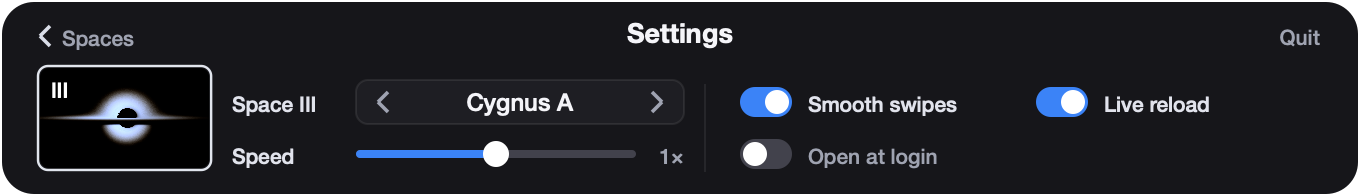
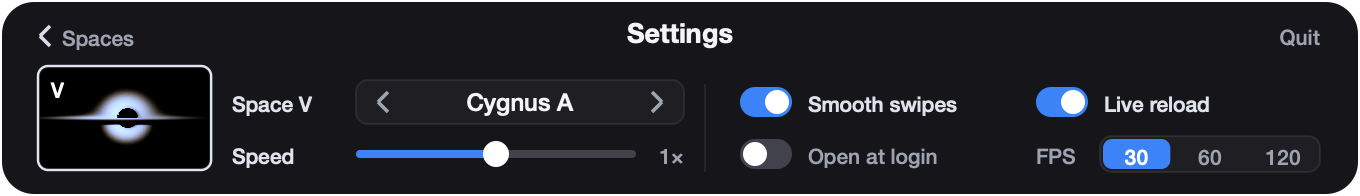
docs/media: popover and Settings show all seven shipped themes
Re-snapshotted with --snapshot-popover from a build of this branch run --offscreen from its
own folder with a clean seven-theme config (the owner's live Argus untouched). Cygnus A on
the active Space V; Lizard Island and Tutorial Reef on its warm neighbours. Settings now
shows the FPS selector. README alt text and media README follow.

Changed region(s): [[0.7412, 0.6735, 0.9574, 0.8878], [0.2162, 0.4898, 0.2471, 0.5816], [0.0309, 0.398, 0.0618, 0.4898]]

diff --git a/docs/media/README.md b/docs/media/README.md
@@ -11,7 +11,7 @@ Every theme frame is rendered offline by the themes' own code on the GPU path th
 | `spaces.png` | 0.5 MB | The seven shipped themes, one per Space, and an eighth Space left on macOS Default. Each tile is a 1920×1080 offline frame |
 | `theme-authoring.png` | 0.3 MB | `themes/Tutorial_Tides.metal` next to its `make harness` frame and verbatim report |
 | `social-card.png` | 0.3 MB | 1280×640 GitHub social preview. Cygnus A rendered at 3840×1920, cropped and scaled |
-| `popover.png` | 0.15 MB | The menu-bar popover (Spaces strip), 1360×196 (2×) |
+| `popover.png` | 0.16 MB | The menu-bar popover (Spaces strip) with the seven shipped themes, 1360×196 (2×) |
 | `settings.png` | 0.04 MB | The popover's Settings view, 1360×196 (2×) |
 
 ## Cygnus_A (video, GIF, stills, card)
@@ -28,7 +28,7 @@ One exception: Lizard_Island builds its static reef in `argus_step` on `f.frame`
 
 ## Popover and Settings
 
-These are the app's own drawing of the popover, not a screen capture. The `--snapshot-popover DIR` dev aid renders each popover face to PNG and quits; no desktop, Dock or other app is in the frame. They were taken from a build of this commit, run with `--window` from its own folder, so the owner's live Argus and its config were untouched. That folder held a clean `.argus_spaces.conf` with the six shipped themes on six Spaces (Cygnus_A on the active one) and the seventh left on macOS Default. One local change, not committed: the snapshot fired at 10 s, with the popover marked open at 5 s, the way a user opening the menu would. Before that, GPU Spaces had published only their first, still-tracing frame.
+These are the app's own drawing of the popover, not a screen capture. The `--snapshot-popover DIR` dev aid renders each popover face to PNG and quits; no desktop, Dock or other app is in the frame. They were taken from a build of this commit, run with `--offscreen` from its own folder (windows far off-screen, no menu-bar item), so the owner's live Argus and its config were untouched. That folder held a clean `.argus_spaces.conf` with the seven shipped themes on seven Spaces, Cygnus_A on the active one. Two local changes for the run, not committed: the snapshot fired at 15 s, with the popover marked open at 5 s, the way a user opening the menu would; and the active Space counted as on screen, which off-screen windows otherwise never are. The themes that need simulation time (Lizard_Island builds its reef, Tutorial_Reef grows) sat on the active Space's warm neighbours.
 
 ## Encoding
 

diff --git a/README.md b/README.md
@@ -108,10 +108,10 @@ smooth swipes, live reload and open at login. Settings live in `.argus_settings.
 Argus.app, one `key=value` per line.
 
 <p align="center">
-  <img src="docs/media/popover.png" alt="The Argus menu-bar popover: a strip of seven Space thumbnails, six running their own themes and one on the macOS default, with Space III (Cygnus A) selected, plus pause and settings buttons" width="680">
+  <img src="docs/media/popover.png" alt="The Argus menu-bar popover: a strip of seven Space thumbnails, one per shipped theme, with Space V (Cygnus A) selected, plus pause and settings buttons" width="680">
 </p>
 <p align="center">
-  <img src="docs/media/settings.png" alt="The Argus Settings view: Space III's preview and theme stepper set to Cygnus A, a speed slider at 1x, and switches for smooth swipes, live reload and open at login" width="680">
+  <img src="docs/media/settings.png" alt="The Argus Settings view: Space V's preview and theme stepper set to Cygnus A, a speed slider at 1x, switches for smooth swipes, live reload and open at login, and a 30 / 60 / 120 FPS selector" width="680">
 </p>
 
 ## Write your own theme
